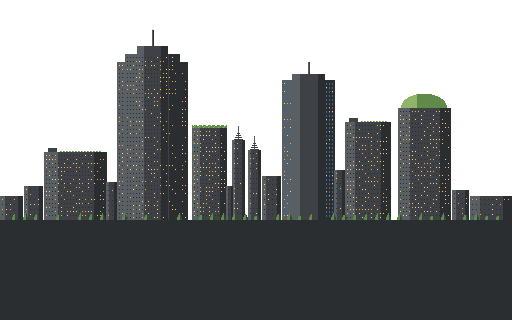
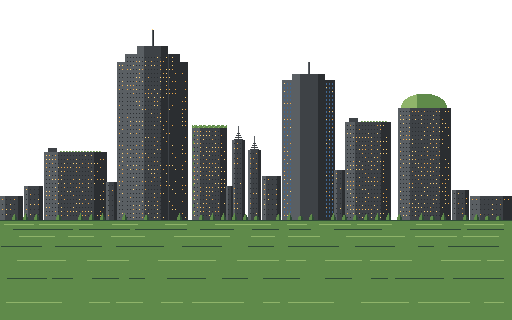
WIP: WP13 fixes, finale art review, WP14 wave 1 in progress
Claude-Session: https://claude.ai/code/session_013hgiVthTsnhGySSf7gyoCD

diff --git a/src/data/finale.ts b/src/data/finale.ts
@@ -3,7 +3,7 @@
 import type { AssetId } from '../assets/assetIds';
 import type { MachineComponentId } from './machineComponents';
 import { PALETTE } from './palette';
-import { DEPTH } from './world';
+import { DEPTH, GROUND_Y } from './world';
 
 /** Restored-world track ids: the 0..1 value that multiplies a parallax layer's alpha (C3 `finale`). */
 export type FinaleTrackId = 'sky' | 'glow' | 'mountains' | 'skyline' | 'ground';
@@ -30,13 +30,14 @@ export const FINALE_TRACKS: Record<FinaleTrackId, { startS: number; durS: number
   { sky: { startS: 19.3, durS: 8 }, glow: { startS: 19.3, durS: 4 }, mountains: { startS: 27.3, durS: 6 }, skyline: { startS: 29.3, durS: 8 },
     ground: { startS: 21.3, durS: 3 } };   // ground = reduced-motion crossfade only
 export const FINALE_DUST = { reverseAtS: 19.3, reverseS: 6, speedY: [6, 18] } as const;   // then stopped
-export const FINALE_WIPE = { startS: 21.3, pxPerS: 120, bandPx: 16, maxStepPx: 16, stepPx: 2, seed: 41, regrowthLagS: [2, 5, 8] } as const;
+export const FINALE_WIPE = { startS: 21.3, pxPerS: 120, bandPx: 16, maxStepPx: 48, stepPx: 4, seed: 41, regrowthLagS: [2, 5, 8] } as const;   // world px; edge 0..24 screen px at the full view (16 read as a ruler edge, in-game review WP13 #6)
 export const RESTORED_GROUND = { groundAssetId: 'terrain.groundGreen' satisfies AssetId, groundDepth: DEPTH.ground + 0.5,
   regrowth: [{ assetId: 'bg.regrowth1' }, { assetId: 'bg.regrowth2' }, { assetId: 'bg.regrowth3' }] satisfies readonly { assetId: AssetId }[], regrowthDepth: DEPTH.ground + 2,
   regrowthBottomOffsetPx: 6 } as const;
 export const FINALE_PLATE = { atS: 30, puffs: 3 } as const;
 export const FINALE_SEEDS = { startS: 25, assetId: 'fx.seed' satisfies AssetId, frames: 4, frequencyMs: 120, postgameRateDiv: 3, lifespanMs: [6000, 12000],
-  speedX: [-8, 20], speedY: [-12, -4], depth: DEPTH.dust } as const;   // x band MACHINE_ANCHOR.x ± DUST.spawnHalfWidth
+  speedX: [-8, 20], speedY: [-12, -4], depth: DEPTH.dust,
+  spawnY: [GROUND_Y - 360, GROUND_Y - 8], alpha: [0.15, 0.9] } as const;   // x band MACHINE_ANCHOR.x ± DUST.spawnHalfWidth; spawnY world [top, bottom] = low over the far fields (pale seeds vanish on the pale lower sky); alpha [end, start] (dust is .35 -> 0: seeds unreadable)
 export const FINALE_BIRDS = { firstAtS: 38, assetId: 'fx.bird' satisfies AssetId, size: [3, 6], everyS: [40, 70], speedPx: 70, skyY: [150, 260],
   spacingPx: { x: 14, y: 6 }, flapHz: 3, bobPx: 2, bobHz: 0.5, seed: 43 } as const;   // screen-fixed (sf 0), scale PIXEL_SCALE, enter right
 export const FINALE_REVEAL = { startS: 49.3, nameplateFadeMs: 800, nameplateScale: 3, holdS: 1.0, cps: 30, linePauseS: 2.0, panelMaxWidthPx: 560,

diff --git a/src/ui/finale.css b/src/ui/finale.css
@@ -57,6 +57,11 @@
   pointer-events: none;
 }
 
+/* No empty terminal before the reveal types its first character (in-game review WP13 #1). Layout is kept (visibility). */
+.finale-panel:not(:has(.finale-line:not(:empty))) {
+  visibility: hidden;
+}
+
 .finale-line {
   margin: 0 0 6px;
   min-height: 1.3em;
@@ -140,24 +145,39 @@
   color: var(--haze);
 }
 
+/* Disabled = dark pressed cell + dim label, fully opaque (opacity let the skyline show through, in-game review WP13 #3). */
 .finale-btn[aria-disabled="true"] {
   cursor: not-allowed;
-  opacity: .6;
 }
 
 .finale-btn[aria-disabled="true"] .finale-btn-frame {
-  --frame: 0;
+  --frame: 2;
+}
+
+.finale-btn[aria-disabled="true"] .finale-btn-icon {
+  opacity: .5;
+}
+
+.finale-btn[aria-disabled="true"] .finale-btn-label {
+  color: var(--amber-dim);
+  border-color: var(--rust-dark);
 }
 
 .finale-btn[aria-disabled="true"]:hover .finale-btn-label {
   background: var(--iron-2);
-  color: var(--amber);
+  color: var(--amber-dim);
 }
 
+/* Reason line sits on the bright restored sky: own dark plate (in-game review WP13 #3, haze on iron ~ 9:1). */
 .finale-reason {
+  box-sizing: border-box;
   max-width: 100%;
+  padding: 4px 10px;
   font-size: max(12px, .9em);
-  color: var(--amber-dim);
+  color: var(--haze);
+  background: var(--iron-2);
+  border: 2px solid var(--rust-dark);
+  box-shadow: 0 0 0 2px var(--ink);
   overflow-wrap: anywhere;
 }
 

diff --git a/src/data/world.ts b/src/data/world.ts
@@ -42,7 +42,7 @@ export const PARALLAX_LAYERS: readonly ParallaxLayerDef[] = [
     finale: { track: 'sky', dir: 'in' } },
   { id: 'mountainsRestored', assetId: 'bg.mountainsRestored', scrollFactor: 0.15, bottomY: GROUND_Y + PARALLAX_BOTTOM_MARGIN, depth: DEPTH.background + 11, alpha: 0.45, underfill: PALETTE.green0,
     finale: { track: 'mountains', dir: 'in' } },
-  { id: 'skylineRestored', assetId: 'bg.skylineRestored', scrollFactor: 0.3, bottomY: GROUND_Y + PARALLAX_BOTTOM_MARGIN, depth: DEPTH.background + 21, alpha: 0.4, underfill: PALETTE.grayDark,
+  { id: 'skylineRestored', assetId: 'bg.skylineRestored', scrollFactor: 0.3, bottomY: GROUND_Y + PARALLAX_BOTTOM_MARGIN, depth: DEPTH.background + 21, alpha: 0.4, underfill: PALETTE.green1 /* far fields, = ground rows of bg.skylineRestored */,
     finale: { track: 'skyline', dir: 'in' } },
 ];
 /** Era V eclipse sprite in the sky (sky px, origin centre): frame 0 = the baked sun, hidden; stages step the frame up as techs arrive; diamond = the one-off flash frame. */

diff --git a/src/data/world.test.ts b/src/data/world.test.ts
@@ -370,7 +370,7 @@ describe('WP13 finale layers (C3)', () => {
     });
     expect(layer('skylineRestored')).toEqual({
       id: 'skylineRestored', assetId: 'bg.skylineRestored', scrollFactor: 0.3, bottomY: GROUND_Y + PARALLAX_BOTTOM_MARGIN, depth: DEPTH.background + 21,
-      alpha: 0.4, underfill: PALETTE.grayDark, finale: { track: 'skyline', dir: 'in' },
+      alpha: 0.4, underfill: PALETTE.green1, finale: { track: 'skyline', dir: 'in' },
     });
   });
 

diff --git a/scripts/art/era5/bg.py b/scripts/art/era5/bg.py
@@ -119,7 +119,15 @@ BUILDINGS = [  # x0, x1, roof top row, kind
 GROUND = 220
 def skyline_restored():
     W, H = 512, 320; a = blank(W, H); rnd = random.Random(21)
-    rect(a, 0, GROUND, W - 1, H - 1, 'i1')
+    # far ground = green fields (in-game review WP13 #2: grey i1 read as a muddy band over the restored ground);
+    # hedge line on the ground row, then dashed furrow / hedge rows spaced wider toward the viewer (aerial perspective)
+    rect(a, 0, GROUND, W - 1, H - 1, 'g1'); hline(a, 0, W - 1, GROUND, 'g0')
+    fr = random.Random(22)                                    # own RNG: building windows below stay pixel-identical
+    for (dy, k) in ((4, 'g2'), (9, 'g0'), (16, 'g2'), (26, 'g0'), (40, 'g2'), (58, 'g0'), (82, 'g2')):
+        x = fr.randint(0, 20)
+        while x < W - 8:                                      # stop short of the seam (tile x 511 -> 0)
+            w = fr.randint(14, 60)
+            hline(a, x, min(W - 9, x + w), GROUND + dy, k); x += w + fr.randint(6, 30)
     def body(x0, x1, top, lit='i3', mid='i2', dark='i1'):
         for y in range(top, GROUND):
             for x in range(x0, x1 + 1):
